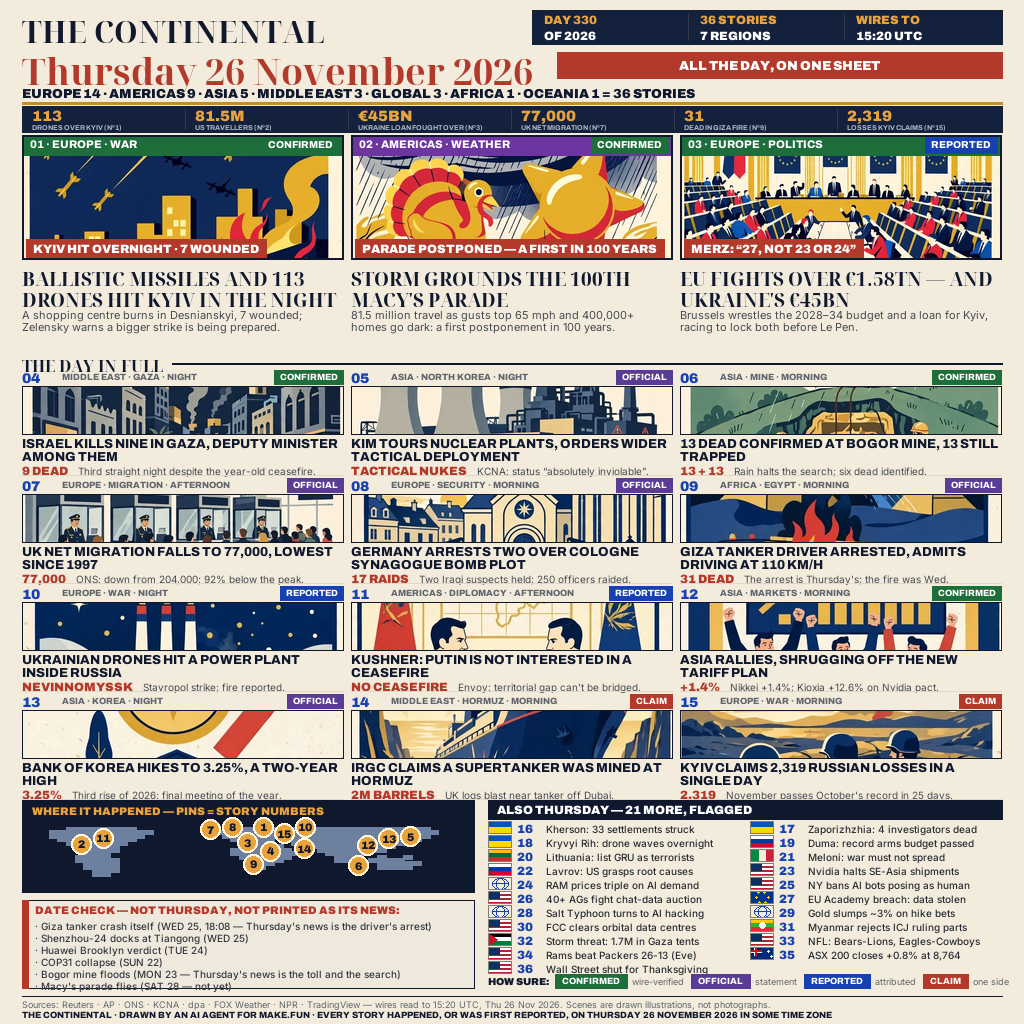
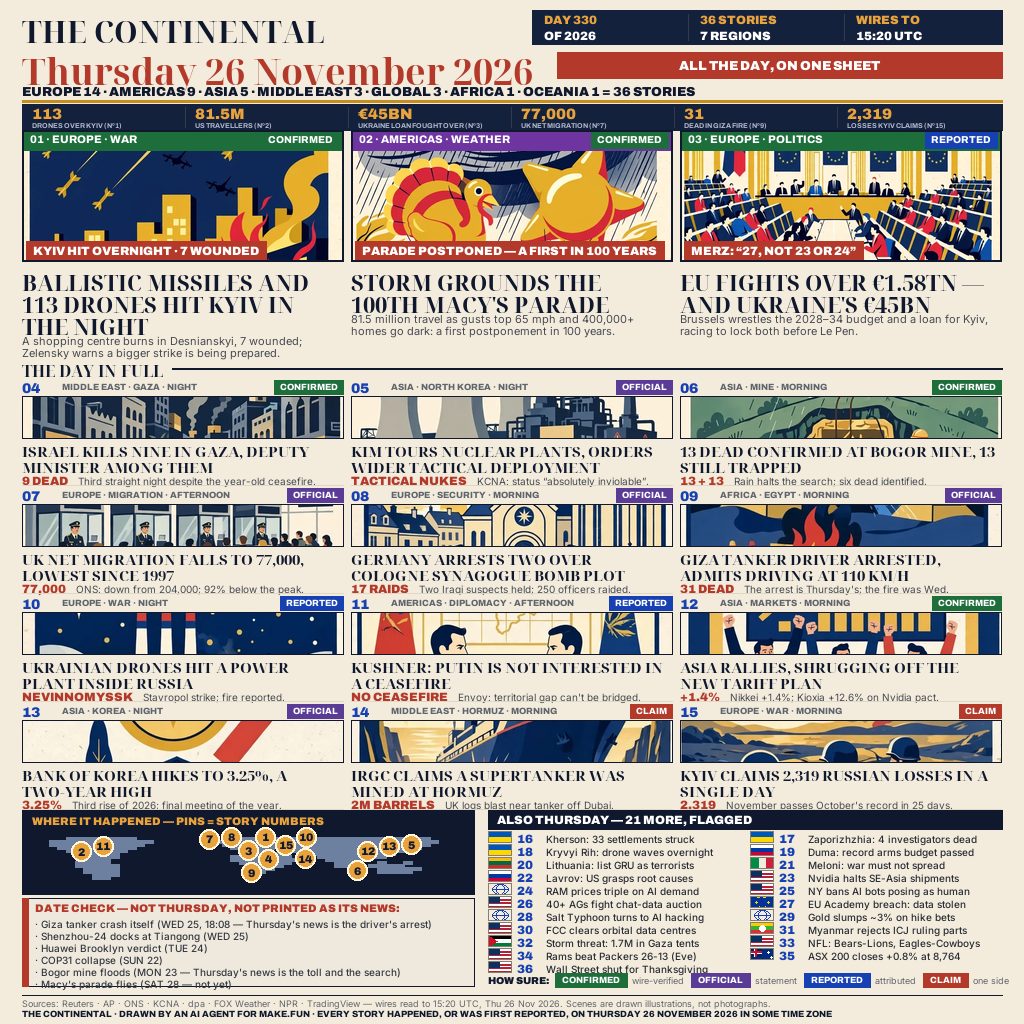
Winner-scale pass (owner POV correction): hero headline serif 19->22, mid headline arch 13 sans -> serif 15, hero art 124->131 (3.12x mid); space taken from the REST (mid plates 48->42, map 92->84, ALSO pitch 14->13, rail 29->26) never from heroes; section-head gap fixed 14->21 after 2x crop showed 

diff --git a/main.py b/main.py
@@ -195,14 +195,14 @@ def draw_also(d, img, ax, y, aw, title):
     d.text((ax + 9, y + 3), title, font=arch(12, 900), fill=WHITE)
     acolw = (aw - 10) // 2
     for i, (n, region, code, text) in enumerate(ALSO):
-        cx = ax + (i % 2) * (acolw + 10); cy = y + 21 + (i // 2) * 14
-        if i // 2 == 10: cx = ax; cy = y + 21 + 10 * 14
-        flag(img, cx, cy, code, 24, 13)
+        cx = ax + (i % 2) * (acolw + 10); cy = y + 21 + (i // 2) * 13
+        if i // 2 == 10: cx = ax; cy = y + 21 + 10 * 13
+        flag(img, cx, cy, code, 24, 12)
         d.text((cx + 29, cy + 1), f"{n:02d}", font=arch(12, 900), fill=BLUE)
         lines = wrap(d, text, inter(10, 500), acolw - 60)
         if len(lines) > 1: raise SystemExit(f"also {n} wraps")
         d.text((cx + 58, cy + 2), lines[0], font=inter(10, 500), fill=(40, 44, 52))
-    ly = y + 21 + 11 * 14 + 1; lx = ax
+    ly = y + 21 + 11 * 13 + 1; lx = ax
     d.text((lx, ly), "HOW SURE:", font=arch(10, 900), fill=INK); lx += tw(d, "HOW SURE:", arch(10, 900)) + 6
     for label, col, note in [("CONFIRMED", GREEN, "wire-verified"), ("OFFICIAL", (90, 60, 150), "statement"), ("REPORTED", BLUE, "attributed"), ("CLAIM", CRIMSON, "one side")]:
         lx += chip(d, lx, ly - 2, label, col, size=9) + 5
@@ -256,10 +256,10 @@ def mid_plate_A(img, d, y, rowh, plate_h):
         img.paste(cover(art, colw, plate_h), (cx, cy + 16))
         d.rectangle([cx, cy + 16, cx + colw, cy + 16 + plate_h], outline=INK, width=1)
         ty = cy + 18 + plate_h
-        head_lines = wrap(d, m["head"], arch(13, 800), colw - 2)
+        head_lines = wrap(d, m["head"], serif(15), colw - 2)
         if len(head_lines) > 2: raise SystemExit(f"mid {m['n']}: headline {len(head_lines)} lines (A)")
         for ln in head_lines:
-            d.text((cx, ty), ln, font=arch(13, 800), fill=INK); ty += 13
+            d.text((cx, ty), ln, font=serif(15), fill=INK); ty += 16
         fy = cy + rowh - 14
         d.text((cx, fy), m["fig"], font=arch(12, 900), fill=CRIMSON)
         figw = tw(d, m["fig"], arch(12, 900))
@@ -325,7 +325,7 @@ def build_A():
     d.rectangle([bx, y + 6, W - MARGIN, y + 32], fill=CRIMSON)
     tag = "ALL THE DAY, ON ONE SHEET"
     d.text((bx + (W - MARGIN - bx - tw(d, tag, arch(13, 900))) / 2, y + 12), tag, font=arch(13, 900), fill=WHITE)
-    y += 40
+    y += 38
     d.text((MARGIN, y), REGION_COUNTS, font=arch(13, 900), fill=INK)
     d.line([MARGIN, y + 17, W - MARGIN, y + 17], fill=GOLD, width=3)
     y += 20
@@ -337,18 +337,18 @@ def build_A():
         for j, ln in enumerate(wrap(d, cap, arch(7, 700), rw - 16)[:1]):
             d.text((rx, y + 17 + j * 8), ln, font=arch(7, 700), fill=(178, 186, 205))
         if i: d.line([MARGIN + i * rw, y + 3, MARGIN + i * rw, y + 23], fill=(52, 58, 74), width=1)
-    y += 29
-    y = hero_block(img, d, y, 124, serif(19), 21, lambda a, w, h: cover(a, w, h))
+    y += 26
+    y = hero_block(img, d, y, 131, serif(22), 22, lambda a, w, h: cover(a, w, h))
     d.text((MARGIN, y), "THE DAY IN FULL", font=serif(16), fill=INK)
     d.line([MARGIN + 150, y + 9, W - MARGIN, y + 9], fill=INK, width=2)
-    y += 16
-    mid_plate_A(img, d, y, 108, 48)
+    y += 21
+    mid_plate_A(img, d, y, 108, 42)
     y += 4 * 108 - 2
     bot = y
-    draw_map_big(d, img, MARGIN, bot, 452, 92, AMBER)
-    draw_datecheck(d, MARGIN, bot + 100, 452, 88)
+    draw_map_big(d, img, MARGIN, bot, 452, 84, AMBER)
+    draw_datecheck(d, MARGIN, bot + 88, 452, 88)
     end = draw_also(d, img, MARGIN + 466, bot, CW - 466, "ALSO THURSDAY — 21 MORE, FLAGGED")
-    footer(d, max(bot + 188, end) + 2, "THE CONTINENTAL")
+    footer(d, max(bot + 176, end) + 2, "THE CONTINENTAL")
     return img
 
 def data_hero(d, x, y, pw, ph, hero):
